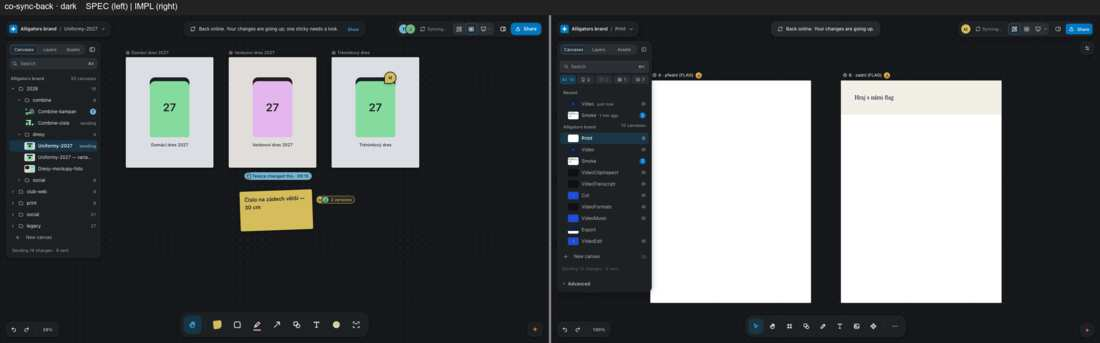
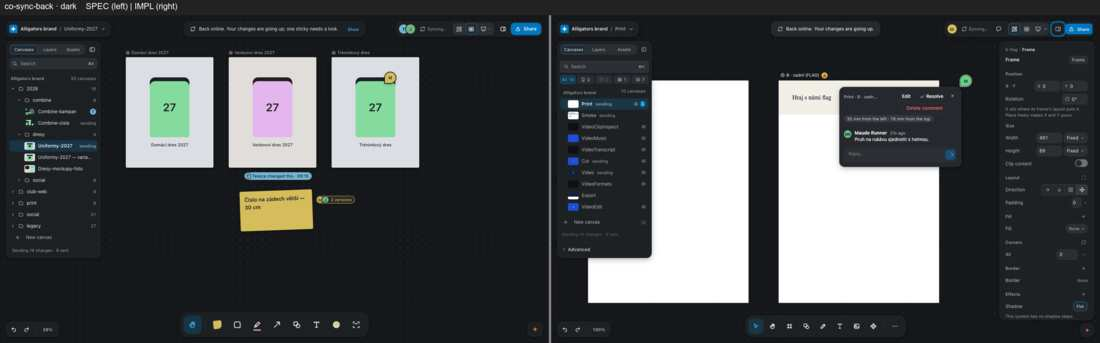
p8-r11-10: round 11 evidence: co-comment-video, co-sync-offline, co-sync-back re-shot (both themes), INDEX, full-size-path, fix-r11-10

diff --git a/.ai/plans/notes/v2-evidence/phase8-fidelity/10-share-and-collaboration/fix-r11-10.md b/.ai/plans/notes/v2-evidence/phase8-fidelity/10-share-and-collaboration/fix-r11-10.md
@@ -1,0 +1,23 @@
+# 10 Share and collaboration — round 11 (p8-r11-10): done / open
+
+The three MUST rows left by `critic-bar5.md` (co-comment-video, co-sync-offline, co-sync-back). Branch `p8-r11-10`, fail-first tests, tsc (one pre-existing error in `acp/bridge.ts`, not touched), biome, release rebuild, `check-client-boots-source`, `opening-card-clears`, re-shoot on the Mac mini.
+
+## Done
+
+| id | what | tests |
+|---|---|---|
+| co-comment-video | Preview of a video board draws the read-only comment strip (`client/v2/timeline/comment-strip*.{js,jsx}`, mounted by `CommentStripHost` in `app.jsx`): the island's material, header "0:06 / 0:15 · <video> · 2 comments on this video", a face per timed thread at its second, the accent ring on the one at the playhead; a face seeks the Player (`timeline-seek`), nothing edits. It reads what the shell already has (active canvas's threads, the comps the canvas announced, the Player's mirrored playhead). Preview only: Edit keeps its own timeline island, Viewing / Present draw none. It must NOT hide with Preview's panel fold (first build did: `usePanelLayout().hidden` is true in Preview) | `p8-r11-10-comment-strip.test.tsx` (pure model, render, host: Preview-only, seek); revert-check: host drawn in every mode → red |
+| co-sync-offline / co-sync-back (rows) | "not sent" (offline) / "sending" (syncing) on exactly the Canvases rows whose canvas has a change waiting. Derived from the ONE outbox: `GET /_api/outbox` `content.byDoc` (V2-1.14 §5.10, fix 5.12c — the projection already existed in `outbox/content.ts`, so no server change). `rowSyncSlots` maps the index rows to doc keys (slug of the path, flat or `ws/<w>/<b>/<slug>`) and publishes into S1's `sync` row-slot source (the panel already drew its `meta`; nothing published it). The slug / wire key are mirrors of the server's `canvasSlugFromRel` / `sanitizeComponent`, pinned to them by a test | `p8-r11-10-sync-words.test.ts`, `p8-r11-10-outbox-words.test.tsx` (real `_state/outbox` files → `contentView` → words) |
+| co-sync-back (foot "9 sent") | a reconnect re-reads the outbox at once (`online` joined the re-read cues of `SyncStatesHost`), so the rows and "Sending 14 changes · N sent" come from the real queue, not up to 8 s later | `p8-r11-10-sync-host.test.tsx` (red: no re-read on `online`) |
+| co-sync-offline (queued bubble) | a comment typed offline is ALREADY on the outbox: `onCommentsChanged` → `proposeLane('comments')` is a content-lane entry (V2-1.14 §5.1), and `content.comments` lists the ids not yet accepted. So the thread card says "Queued — sends when this Mac is online." from that, not from a new kind: the shell stamps `queued: true` on those comments (and replies) before it pushes them to the canvas (`markQueued`, only while the status kind is offline — online they are about to be accepted, no flash), and the overlay draws one warn-coloured line with a clock under the words | `p8-r11-10-queued-comment.test.tsx` (overlay; revert-check: overlay put back → 2 red), `p8-r11-10-outbox-words.test.tsx` (`useQueuedMarkedByFile`) |
+
+## Real vs faked in the shots
+
+Real: the comment (made through the product), 14 `_state/outbox/<createdAt>-tx_*.json` entries (the transaction client's file shape; one on the `comments` lane carrying that comment) and everything derived from them. Faked, as since round 7: the hub link (`/_sync-status`) and the Mac being offline — now `navigator.onLine` + the window event only, so the panel's own loopback requests (covers, kind counts) keep working like on a real offline Mac (the first attempt used CDP offline and the panel lost its thumbnails and chips).
+
+## Open
+
+- The board draws co-sync-offline / -back in Preview with the annotate toolbar; Preview's cluster has no status word, so the impl frames use Edit chrome (04's owning decision, unchanged). Opening the pin in Edit also selects the commented frame and the Inspector opens; the harness folds it.
+- co-sync-back: the thread card stays open in the frame (Esc from the main frame does not reach the canvas iframe's card); the board draws the pin alone. Harness-only.
+- The strip sits at the foot of the free canvas, not under the picture (no anchor without a selection); the board's strip also draws the clips and waveform of the Edit timeline — Preview shows the comments row only.
+- Full studio suite on the mini (slot 1) at an earlier tip of this branch: 9 red, none in these files: four `gate-b-c4d` exports, `ds-upgrade --prove`, the safe-zone PNG, are export / headless-Chromium lanes (not re-run on the baseline), the compare-frames theme test was green on a local re-run; `csrf-write-guard` fails because `routes/agent.ts` exists and the test's allowlist is `index.ts` only; `p8-c7-last-canvas` "Recent row says when" is wall-clock dependent (reads "yesterday" after midnight). Reproduced locally for the last two.

diff --git a/.ai/plans/notes/v2-evidence/phase8-fidelity/10-share-and-collaboration/INDEX.md b/.ai/plans/notes/v2-evidence/phase8-fidelity/10-share-and-collaboration/INDEX.md
@@ -245,3 +245,15 @@ Every reachable id re-shot, light + dark, IMPL side only, on the merged tip `fea
 | co-mention-notify | unreachable | unreachable | OS banner + hub mention e-mail template are not in the lane (unchanged) |
 
 15 reachable ids x 2 themes = 30 pairs.
+
+## Round 11 (p8-r11-10) — after
+
+Shot on the Mac mini (Google Chrome, `SHOT_CHANNEL=chrome`), release-built client of the branch tip, harness `_d7-harness-g3/g4` scenarios `s10r11v` / `s10r11s` (`run-r11-10.sh`). IMPL side re-shot, committed JPEG pairs overwritten (spec frames reused from stage A). No match judged here; the ledger is untouched.
+
+| artboard id | light | dark | what changed in the frame |
+|---|---|---|---|
+| `co-comment-video` | re-shot | re-shot | Preview now draws the read-only comment strip at the foot of the canvas: "0:06 / 0:15 · Hype trailer · 16:9 · 2 comments on this video", a face on each thread's second, the accent ring on the one at the playhead (`s10r11v`; one thread is made through the product, one is an existing one) |
+| `co-sync-offline` | re-shot | re-shot | Canvases rows say "not sent" on the five canvases with a waiting change; the foot "14 changes since yesterday 18:20 — kept on this Mac"; the pin's thread card says "Queued — sends when this Mac is online." (`s10r11s`) |
+| `co-sync-back` | re-shot | re-shot | the same rows say "sending" on the four canvases still waiting; foot "Sending 14 changes · 9 sent"; the toast "Back online. Your changes are going up." |
+
+Real vs faked for `co-sync-*`: the comment is made through the product; `<project>/.design/_state/outbox/` holds 14 real entries in the transaction client's file shape (one on the `comments` lane carrying the real comment) and the rows / foot / "Queued" are derived from `GET /_api/outbox` over those files (`outbox/content.ts`). Still faked, as since round 7: the hub link (`/_sync-status` says linked) and the Mac being offline (`navigator.onLine` flipped, loopback kept up). The board's frame is Preview with the annotate toolbar; the impl frames are Edit chrome (Preview's cluster draws no status word) — 04's, unchanged.
